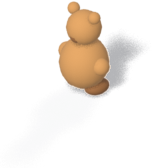
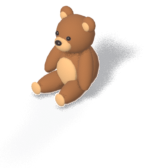
feat: sprites y catálogo de las 8 piezas rediseñadas (PR B)
Actualiza en catalogo.json las orientaciones, anclas y huellas de sillón
en L, ventana 2, posters, osito, balón de voli, colocador, lámpara 2 y
computadora doble monitor (ahora 3x2 celdas), y las alturas de pared de
la ventana 2 y los posters. Precios sin cambios.

Claude-Session: https://claude.ai/code/session_01MoZC4xnJwJKycZ2xWZAqok

Changed region(s): [[0.1944, 0.0, 0.8333, 0.6548], [0.7778, 0.2083, 0.8889, 0.2679]]

diff --git a/docs/CONTEXTO.md b/docs/CONTEXTO.md
@@ -69,7 +69,7 @@ HUD (empresa · etapa; bloque de **progreso de la oleada**: oleada, monedas, usu
 - **Solo estética** (no afecta la simulación). Se abre **solo entre oleadas** (HUD del cuarto o post-mortem). En la etapa 1 se ve bloqueada.
 - **Colocación libre** en una cuadrícula de 0.5 m, **con giro** (cada objeto tiene 2 orientaciones renderizadas; los de pared cambian de muro al girar). Huella verde/roja; en celular se confirma con "✓ Colocar". Los objetos colocados se pueden mover, girar, guardar en el inventario o vender (50 %).
 - Catálogo inicial (12): planta, lámpara de pie, sillón, mesita con cafetera, librero, tapete (va debajo, admite objetos encima), máquina de snacks, consola de videojuegos, acuario, trofeo Scale-up (gratis al completar la etapa 2), cuadro (pared) y letrero de neón con el **nombre de la empresa** del jugador (pared). Datos en `data/decor/catalogo.json`.
-- **PR B (feedback de Jaq, tester):** 18 objetos nuevos agregados al catálogo (precio fijo al comprar, sin recolor después, mismo patrón que paredes/racks): tapete redondo, tapete estampado, sillón en forma de L, mesa auxiliar, estantería, 2 ventanas decorativas (pared), cuadro nuevo (pared), posters (pared), 3 plantas nuevas, florero, osito, balón de voli, colocador, lámpara nueva y computadora de doble monitor. Geometría en `source_art/blender/build_decor.py` (funciones `tapete_redondo`…`computadora_doble`), celdas y precio ya balanceados contra el catálogo existente.
+- **PR B (feedback de Jaq, tester):** 18 objetos nuevos agregados al catálogo (precio fijo al comprar, sin recolor después, mismo patrón que paredes/racks): tapete redondo, tapete estampado, sillón en forma de L, mesa auxiliar, estantería, 2 ventanas decorativas (pared), cuadro nuevo (pared), posters (pared), 3 plantas nuevas, florero, osito, balón de voli, colocador, lámpara nueva y computadora de doble monitor (escritorio con 2 monitores, CPU y silla; ocupa 3×2 celdas). Geometría en `source_art/blender/build_decor.py` (funciones `tapete_redondo`…`computadora_doble`), celdas y precio ya balanceados contra el catálogo existente.
 - En la etapa 3 se agregan objetos inspirados en referencias personales del equipo (diseños propios, sin copiar logos ni personajes con derechos).
 - **El inventario es del jugador, no del cuarto:** al abrir el cuarto de una etapa nueva, lo colocado en cuartos anteriores vuelve al inventario (trofeo incluido) para colocarlo otra vez.
 - **Tamaño del catálogo extra:** las 2 zonas de pared del data center (`zonas_catalogo_extra`) miden 1.1 m (`pared_izq_1`) y 0.8 m (`pared_izq_2`). Las referencias personales de pared deben medir **≤ 0.8 m de ancho** para caber en cualquiera de las dos, o se amplían las zonas más adelante. El cuadro actual (0.9 m) solo cabe en la de 1.1 m y el neón (1.4 m) en ninguna.
